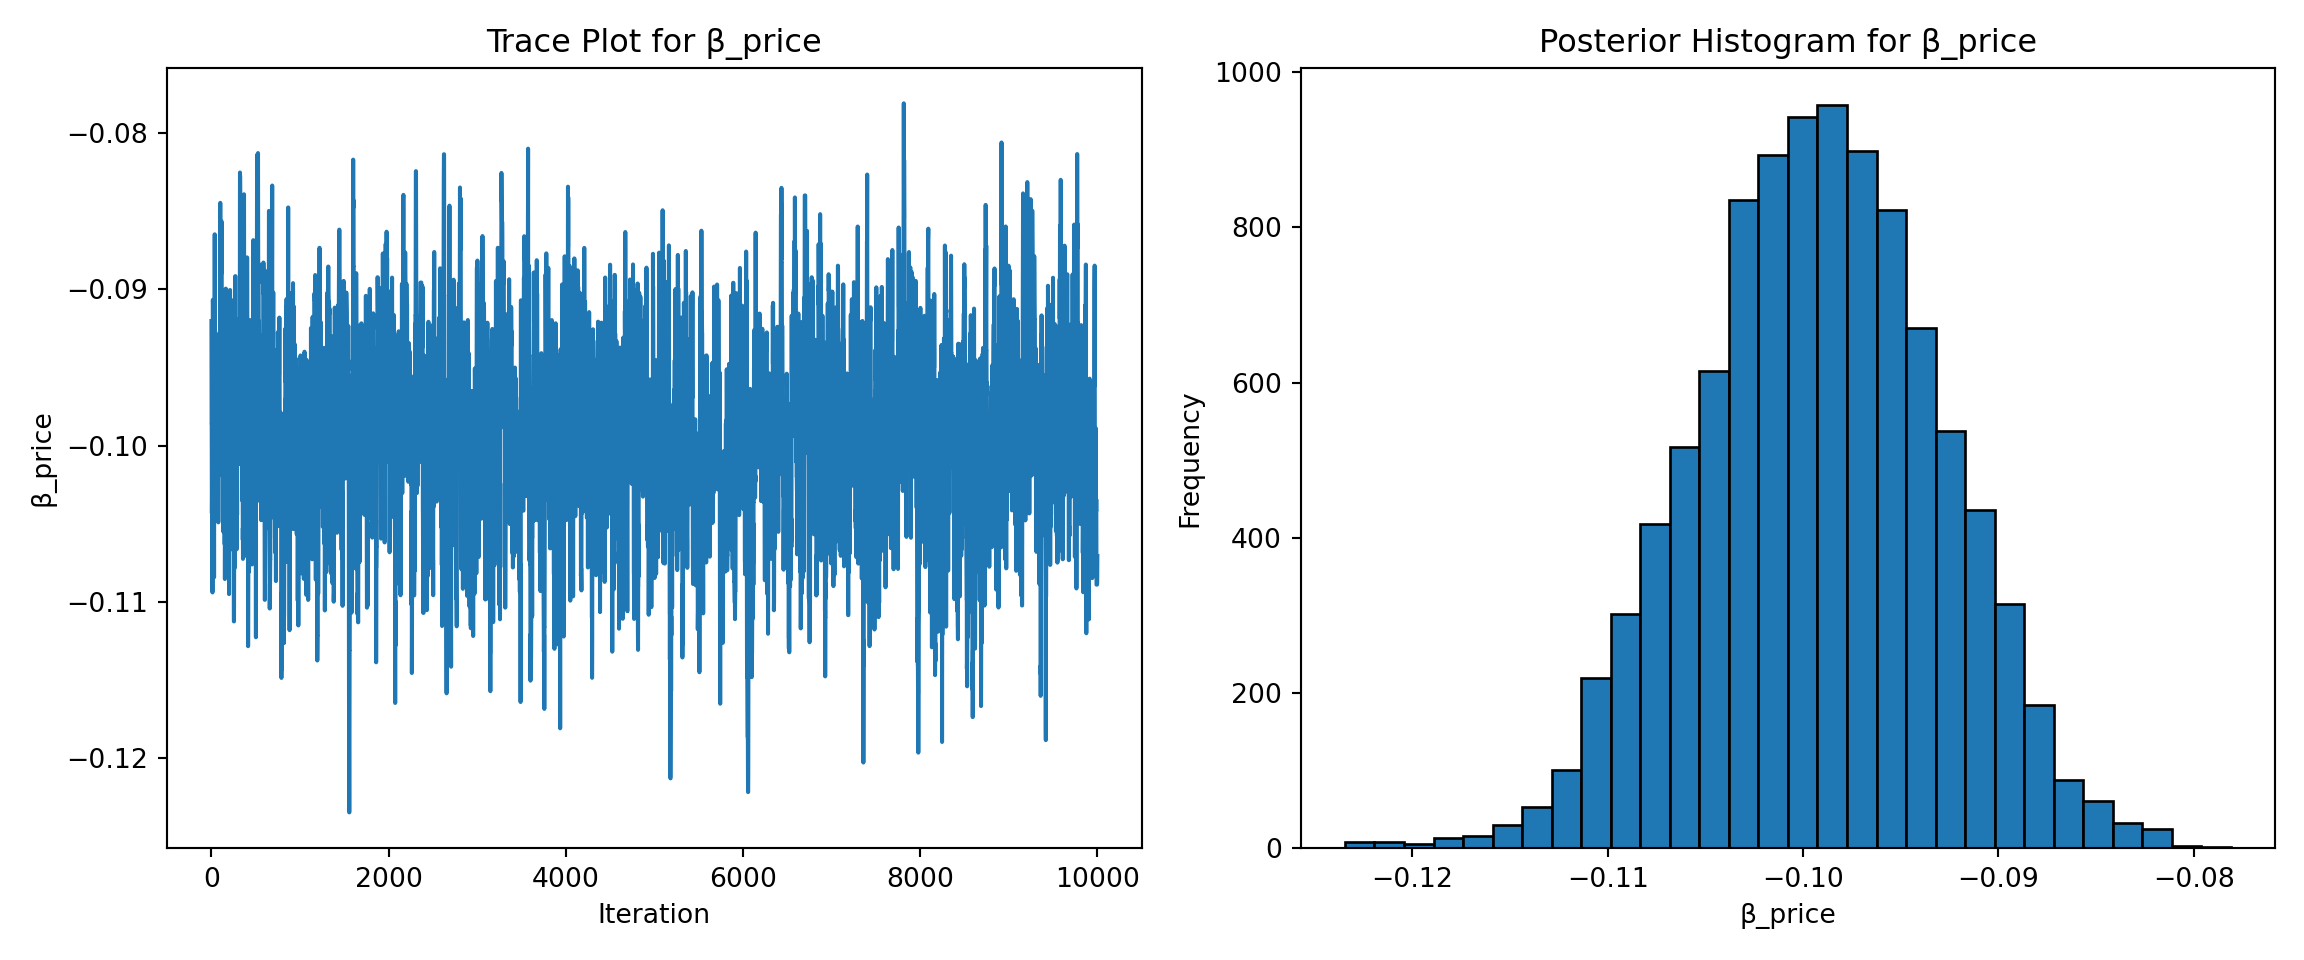
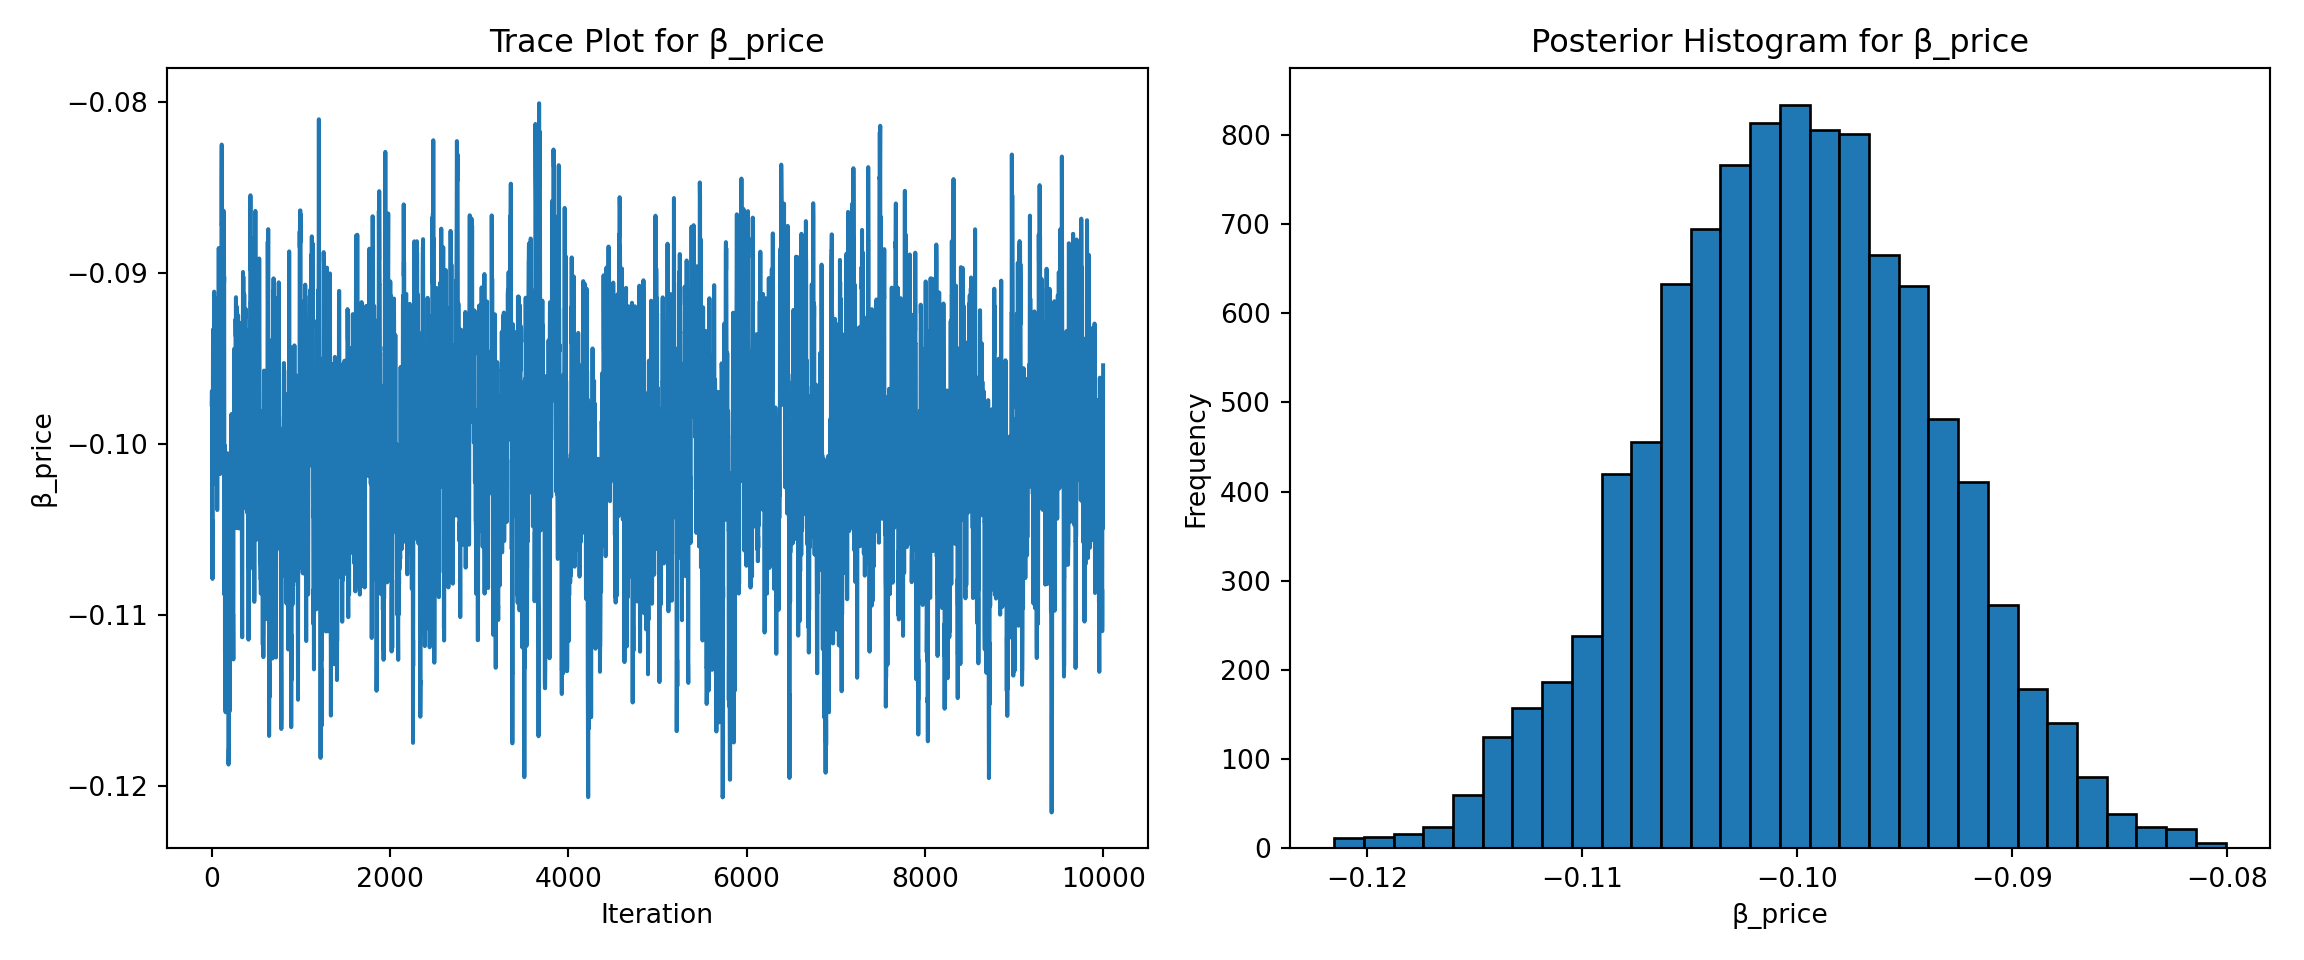
hw3_v3

diff --git a/docs/projects/hw3/hw3_questions.html b/docs/projects/hw3/hw3_questions.html
@@ -391,6 +391,8 @@ Note
 <span id="cb6-12"><a href="#cb6-12" aria-hidden="true" tabindex="-1"></a>    <span class="cf">return</span> <span class="op">-</span>np.<span class="bu">sum</span>(y <span class="op">*</span> log_probs)</span></code><button title="Copy to Clipboard" class="code-copy-button"><i class="bi"></i></button></pre></div>
 </div>
 <!-- _todo: Use `optim()` in R or `scipy.optimize()` in Python to find the MLEs for the 4 parameters ($\beta_\text{netflix}$, $\beta_\text{prime}$, $\beta_\text{ads}$, $\beta_\text{price}$), as well as their standard errors (from the Hessian). For each parameter construct a 95% confidence interval._ -->
+<p>Here I’ll split the data into X and Y which represent my explantory and response variables. Then creating groups to identify choice task.</p>
+<p>Then we’ll initalze the Beta’s for our log_likelhood function and run the optimize to find what the optimal values for beta are given the data and return our MLE means and std errors.</p>
 <div class="cell">
 <div class="sourceCode cell-code" id="cb7"><pre class="sourceCode python code-with-copy"><code class="sourceCode python"><span id="cb7-1"><a href="#cb7-1" aria-hidden="true" tabindex="-1"></a><span class="im">import</span> numpy <span class="im">as</span> np</span>
 <span id="cb7-2"><a href="#cb7-2" aria-hidden="true" tabindex="-1"></a></span>
@@ -427,6 +429,7 @@ Note
 <span id="cb7-33"><a href="#cb7-33" aria-hidden="true" tabindex="-1"></a>hessian_inv <span class="op">=</span> result.hess_inv  <span class="co"># estimated inverse Hessian</span></span>
 <span id="cb7-34"><a href="#cb7-34" aria-hidden="true" tabindex="-1"></a>standard_errors <span class="op">=</span> np.sqrt(np.diag(hessian_inv))  <span class="co"># approximate SEs</span></span></code><button title="Copy to Clipboard" class="code-copy-button"><i class="bi"></i></button></pre></div>
 </div>
+<p>I’ll create confidence intervals using the standard errors we calcualted in the last cell and multyplying by 1.96, which is the z-score associated with a 95% CI interval in the standard normal distrbution and then return the results.</p>
 <div class="cell">
 <div class="sourceCode cell-code" id="cb8"><pre class="sourceCode python code-with-copy"><code class="sourceCode python"><span id="cb8-1"><a href="#cb8-1" aria-hidden="true" tabindex="-1"></a><span class="co"># 95% confidence intervals</span></span>
 <span id="cb8-2"><a href="#cb8-2" aria-hidden="true" tabindex="-1"></a>conf_ints <span class="op">=</span> np.column_stack([</span>
@@ -474,9 +477,12 @@ _todo: report the 4 posterior means, standard deviations, and 95% credible inter
 -->
 <div class="cell">
 <div class="cell-output cell-output-stdout">
-<pre><code>Matplotlib created a temporary cache directory at /tmp/matplotlib-6974015g because the default path (/home/jovyan/.config/matplotlib) is not a writable directory; it is highly recommended to set the MPLCONFIGDIR environment variable to a writable directory, in particular to speed up the import of Matplotlib and to better support multiprocessing.</code></pre>
+<pre><code>Matplotlib created a temporary cache directory at /tmp/matplotlib-113bhyvy because the default path (/home/jovyan/.config/matplotlib) is not a writable directory; it is highly recommended to set the MPLCONFIGDIR environment variable to a writable directory, in particular to speed up the import of Matplotlib and to better support multiprocessing.</code></pre>
 </div>
 </div>
+<p>I’ll rewrite the likelhood function modfied to use the logs and include the given log priors for each of the beta and begin the MCMC chain. The chain will cycle through 11,000 iterations with the first 1,000 thrown out because the algorithim needs to be ‘dialed-in.’ The Beta will be intialzed at the given values of mean zero and std devationd .05,.05,.05, and .005.</p>
+<p>Then I’ll starty looping through the chain calcualting the proposed posterior distrbution and the existing posterrior distrbution. We’ll find the accept ratio as the ratio between the proposed and existing and then if it meets criteria we’ll accept or reject the distrbtuion. If the accept ratio is greater than 1 we’ll accept the the proposed distrbution. If its less than one we’ll accept the proposed distrubtion with a probability equal to accept probability.</p>
+<p>Once we’ve cycled through the loop 11,000 times we’ll have enough information about the form of the posterior distrbution. From this postrerior distrubtion we are able to directly calcualte the mean of the sample posterior distrbution and the std dev of the sample posterior distrbution.</p>
 <div class="cell">
 <div class="sourceCode cell-code" id="cb11"><pre class="sourceCode python code-with-copy"><code class="sourceCode python"><span id="cb11-1"><a href="#cb11-1" aria-hidden="true" tabindex="-1"></a><span class="co"># Modified log-posterior function: log-likelihood + log-prior</span></span>
 <span id="cb11-2"><a href="#cb11-2" aria-hidden="true" tabindex="-1"></a><span class="kw">def</span> log_posterior(beta, X, y, group_indicator):</span>
@@ -545,10 +551,10 @@ _todo: report the 4 posterior means, standard deviations, and 95% credible inter
 <span id="cb11-65"><a href="#cb11-65" aria-hidden="true" tabindex="-1"></a><span class="bu">print</span>(posterior_summary)</span></code><button title="Copy to Clipboard" class="code-copy-button"><i class="bi"></i></button></pre></div>
 <div class="cell-output cell-output-stdout">
 <pre><code>         Posterior Mean  Posterior Std  95% CI Lower  95% CI Upper
-brand_N        0.949405       0.108528      0.749853      1.171745
-brand_P        0.510009       0.107841      0.295979      0.715891
-ad_Yes        -0.730962       0.086668     -0.900103     -0.550089
-price         -0.099273       0.006204     -0.111099     -0.087532</code></pre>
+brand_N        0.950860       0.107239      0.746743      1.162135
+brand_P        0.507505       0.117288      0.286510      0.745122
+ad_Yes        -0.732315       0.088935     -0.907723     -0.565445
+price         -0.100224       0.006429     -0.113180     -0.087969</code></pre>
 </div>
 <div class="sourceCode cell-code" id="cb13"><pre class="sourceCode python code-with-copy"><code class="sourceCode python"><span id="cb13-1"><a href="#cb13-1" aria-hidden="true" tabindex="-1"></a><span class="bu">print</span>(results_df)</span></code><button title="Copy to Clipboard" class="code-copy-button"><i class="bi"></i></button></pre></div>
 <div class="cell-output cell-output-stdout">
@@ -559,6 +565,7 @@ ad_Yes     -0.731994    0.087630       -0.903748       -0.560240
 price      -0.099480    0.006301       -0.111831       -0.087130</code></pre>
 </div>
 </div>
+<p>The MLE method and Metrolopisis Hasting methods produce very simialar coeffcietns and std errors which gives us high confidence that our process worked.</p>
 <div class="cell">
 <div class="cell-output-display">
 <div>

diff --git a/docs/projects.html b/docs/projects.html
@@ -214,7 +214,7 @@ window.Quarto = {
 <div class="quarto-listing quarto-listing-container-default" id="listing-listing">
 <div class="list quarto-listing-default">
 
-<div class="quarto-post image-right" data-index="0" data-listing-date-sort="1748415600000" data-listing-file-modified-sort="1748406255301" data-listing-date-modified-sort="NaN" data-listing-reading-time-sort="12" data-listing-word-count-sort="2244">
+<div class="quarto-post image-right" data-index="0" data-listing-date-sort="1748415600000" data-listing-file-modified-sort="1748408786645" data-listing-date-modified-sort="NaN" data-listing-reading-time-sort="13" data-listing-word-count-sort="2538">
 
 <div class="thumbnail">
 <a href="./projects/hw3/hw3_questions.html" class="no-external">
